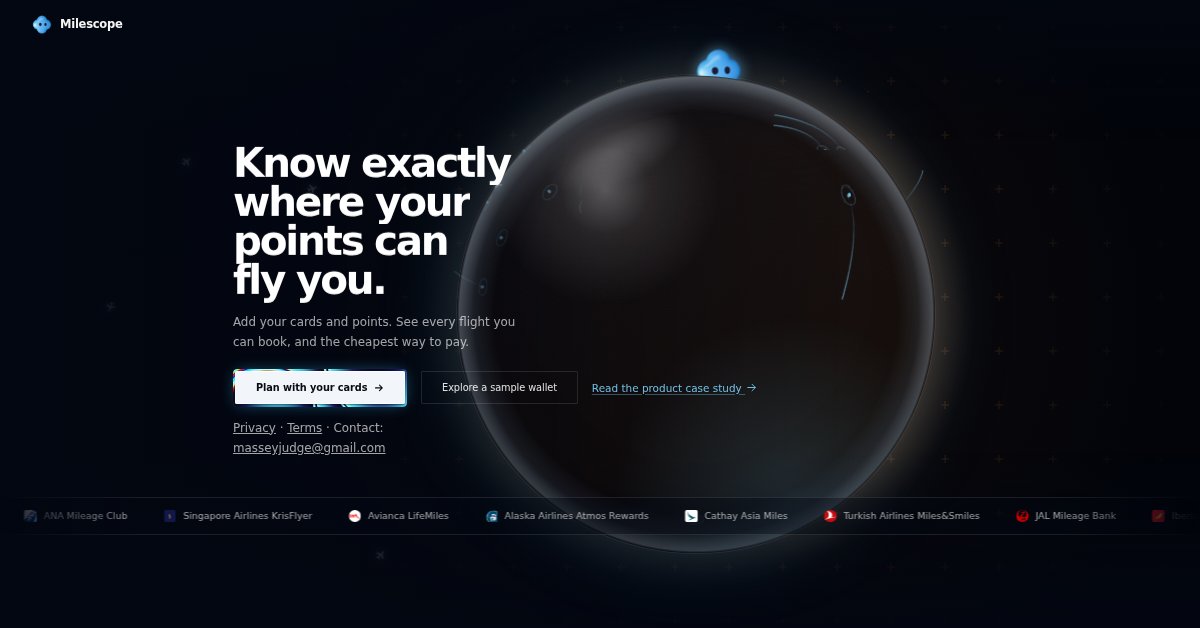
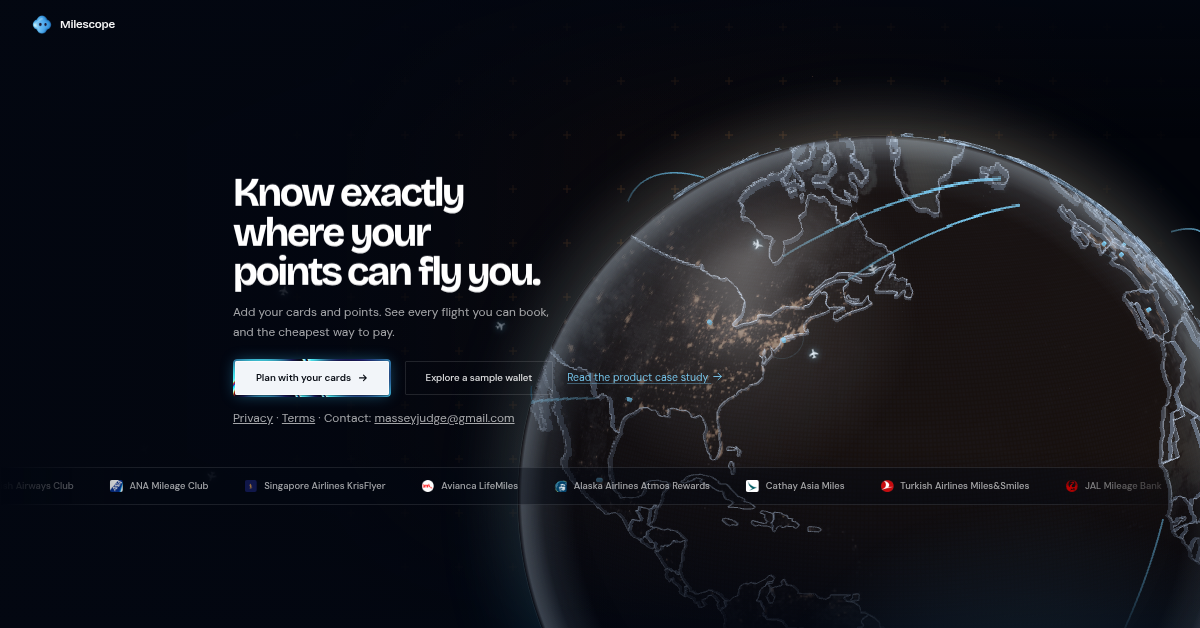
Link preview: real landing page screenshot (#26)
Claude-Session: https://claude.ai/code/session_01VU68HyqYbRbsVGLSnK22Hx

diff --git a/case-study.html b/case-study.html
@@ -6,12 +6,12 @@
 <title>Milescope · Product case study</title>
 <meta property="og:type" content="website">
 <meta property="og:url" content="https://milescope.vercel.app/case-study.html">
-<meta property="og:image" content="https://milescope.vercel.app/og-image.png">
+<meta property="og:image" content="https://milescope.vercel.app/og-image.png?v=2">
 <meta property="og:image:width" content="1200">
 <meta property="og:image:height" content="628">
 <meta property="og:image:alt" content="Milescope: know exactly where your points can fly you">
 <meta name="twitter:card" content="summary_large_image">
-<meta name="twitter:image" content="https://milescope.vercel.app/og-image.png">
+<meta name="twitter:image" content="https://milescope.vercel.app/og-image.png?v=2">
 
 <meta name="description" content="How I built Milescope, an app that shows where your credit card points can take you: the problem, what I found, the decisions I made, and how I'd measure it.">
 <meta property="og:title" content="Milescope · Product case study">

diff --git a/index.html b/index.html
@@ -8,12 +8,12 @@
 <meta property="og:title" content="Milescope">
 <meta property="og:type" content="website">
 <meta property="og:url" content="https://milescope.vercel.app/">
-<meta property="og:image" content="https://milescope.vercel.app/og-image.png">
+<meta property="og:image" content="https://milescope.vercel.app/og-image.png?v=2">
 <meta property="og:image:width" content="1200">
 <meta property="og:image:height" content="628">
 <meta property="og:image:alt" content="Milescope: know exactly where your points can fly you">
 <meta name="twitter:card" content="summary_large_image">
-<meta name="twitter:image" content="https://milescope.vercel.app/og-image.png">
+<meta name="twitter:image" content="https://milescope.vercel.app/og-image.png?v=2">
 <meta property="og:description" content="An award-chart flight explorer for transferable credit card points.">
 <link rel="icon" href="logo.png" type="image/png">
 <link rel="apple-touch-icon" href="apple-touch-icon.png">
